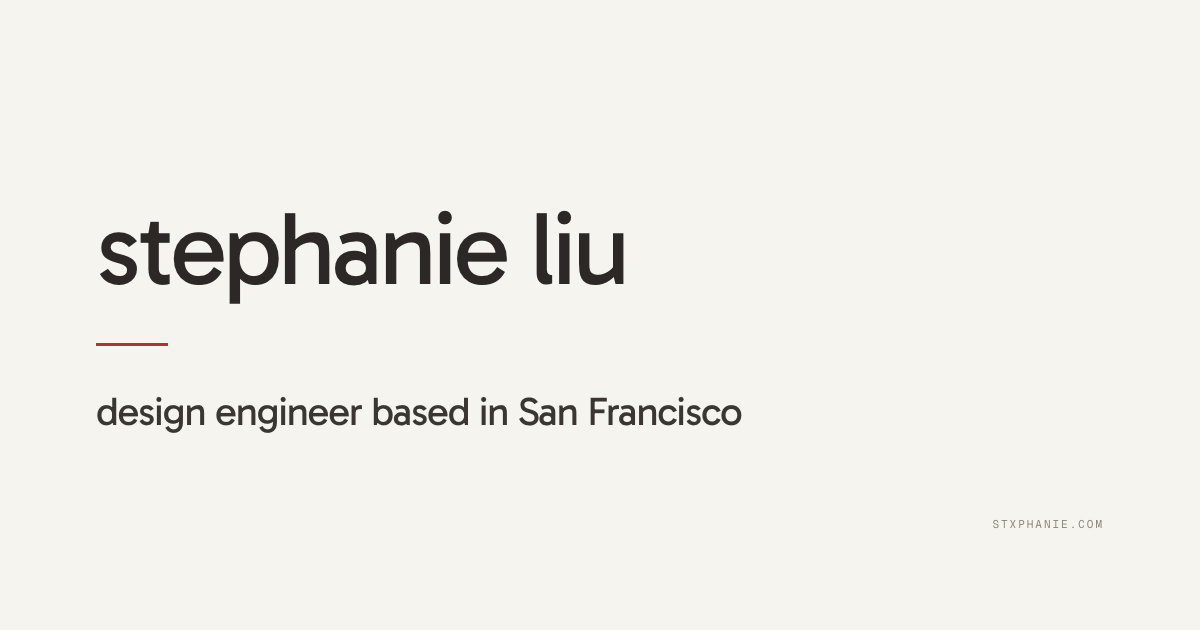
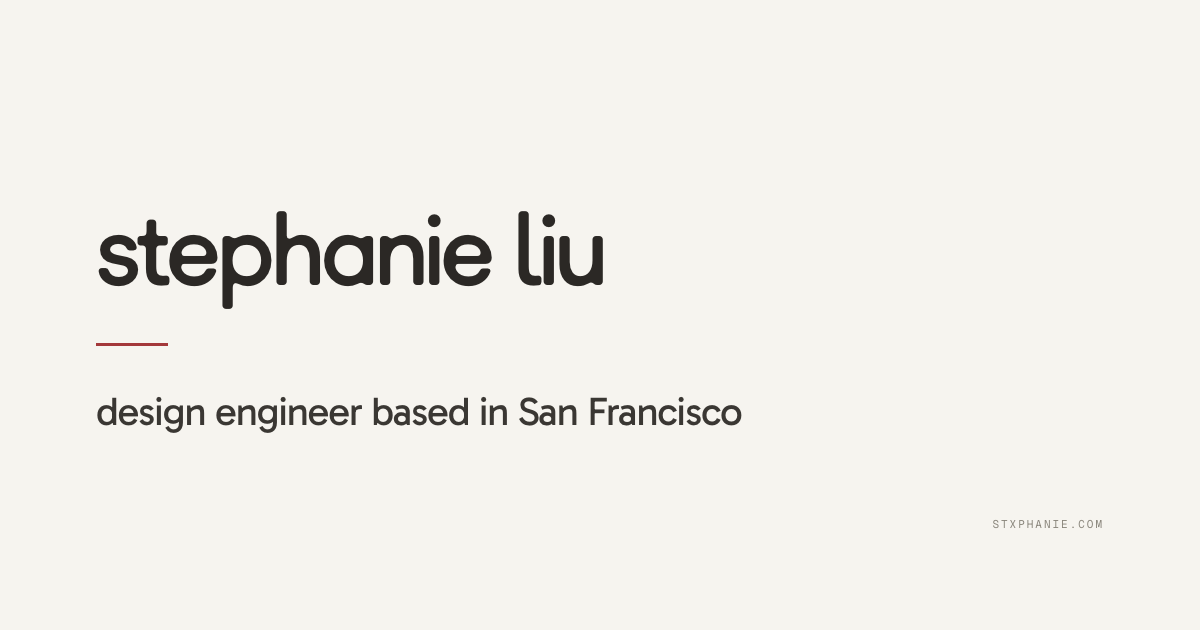
Set the two largest headlines in KK Topo
Gabarito is a good UI face but an anonymous headline: at display size
the home hero read as a default rather than a choice. KK Topo has the
wider counters and rounder bowls to carry that first impression.

Scoped to --t-display (home and 404 headlines) and --t-hero (case study
titles), and nothing else. Both faces are geometric sans, so the switch
only reads as hierarchy where the size gap is wide enough to carry it;
at section headings and accordion rows it read as unevenness instead.
Topo also ships in one weight, and every token that now uses it asks for
400 — anywhere the site wants 500 would have got a smeared synthetic
bold.

Served from public/ rather than bundled so BaseLayout can preload it by
a URL that survives a rebuild. The preview card picks the face up from
--font-display automatically; og.png is re-shot here to match.

Changed region(s): [[0.0617, 0.3317, 0.5242, 0.4825]]

diff --git a/src/styles/tokens.css b/src/styles/tokens.css
@@ -42,6 +42,17 @@
 
   /* ---- Typography ---- */
   --font-sans: 'Gabarito', system-ui, -apple-system, sans-serif;
+  /* The two genuinely large moments only: --t-display (home and 404
+     headlines) and --t-hero (case study titles). Nothing smaller.
+     Topo and Gabarito are both geometric sans, so the switch only reads as
+     hierarchy when the size gap is wide enough to carry it. Section headings
+     at 34px and accordion rows at 24px are inside that gap — there the second
+     face stops reading as a voice and starts reading as unevenness.
+     KK Topo ships in one weight, so nothing set in it may ask for 500 —
+     the browser fakes it and the result smears.
+     Falls back to the text face, which is metrically close enough that a
+     failed font load rewraps rather than reflows the page. */
+  --font-display: 'KK Topo', 'Gabarito', system-ui, -apple-system, sans-serif;
   --font-mono: 'Geist Mono Variable', 'Geist Mono', ui-monospace, SFMono-Regular, monospace;
 
   --weight-light:     300;
@@ -52,7 +63,7 @@
   /* Type scale. Names describe role, not size — the role is what
      survives a redesign. Line-height and tracking are part of the
      token; do not set them independently. */
-  --t-hero:      400 52px/1.10 var(--font-sans);   /* letter-spacing -0.030em */
+  --t-hero:      400 52px/1.10 var(--font-display);   /* letter-spacing -0.030em */
   --t-section:   400 34px/1.15 var(--font-sans);   /* -0.025em */
   --t-statement: 400 26px/1.40 var(--font-sans);   /* -0.016em — thesis band */
   --t-accordion: 400 24px/1.30 var(--font-sans);   /* -0.014em */
@@ -141,7 +152,7 @@
 
   /* Type */
   --display-size:  clamp(40px, 4.85vw, 66px);           /* 66px at the 1360 canvas */
-  --t-display:     400 var(--display-size)/1.10 var(--font-sans); /* home headline */
+  --t-display:     400 var(--display-size)/1.10 var(--font-display); /* home headline */
   --t-org:         500 16px/1.30 var(--font-sans);      /* career org */
   --t-diagram:     400 18px/1.35 var(--font-sans);      /* diagram role, -0.015em */
   --t-list-large:  400 18px/1.60 var(--font-sans);      /* large dash list */
@@ -232,7 +243,7 @@
     --thumb-height:    200px;
     --r-media:         var(--r-sm);
 
-    --t-hero:         400 34px/1.12 var(--font-sans);
+    --t-hero:         400 34px/1.12 var(--font-display);
     --t-section:      400 26px/1.15 var(--font-sans);
     --t-lede:         400 19px/1.40 var(--font-sans);
     --t-subhead:      400 17px/1.55 var(--font-sans);

diff --git a/src/styles/fonts.css b/src/styles/fonts.css
@@ -1,0 +1,16 @@
+/* Faces that aren't on a CDN or in @fontsource.
+   KK Topo (Kaam Kaaj) is the display face — see --font-display in tokens.css
+   for where it's used. Regular is the only weight, which is why nothing set
+   in it asks for 500: the browser would synthesise that and smear it.
+   Served from public/ rather than bundled so BaseLayout can preload it by a
+   URL that doesn't change on every build. */
+
+@font-face {
+  font-family: 'KK Topo';
+  font-weight: 400;
+  font-style: normal;
+  /* swap, not block: the headline is the first thing on the page, and a
+     flash of Gabarito beats an empty hero on a slow connection. */
+  font-display: swap;
+  src: url('/fonts/KK-Topo-Regular.woff2') format('woff2');
+}
